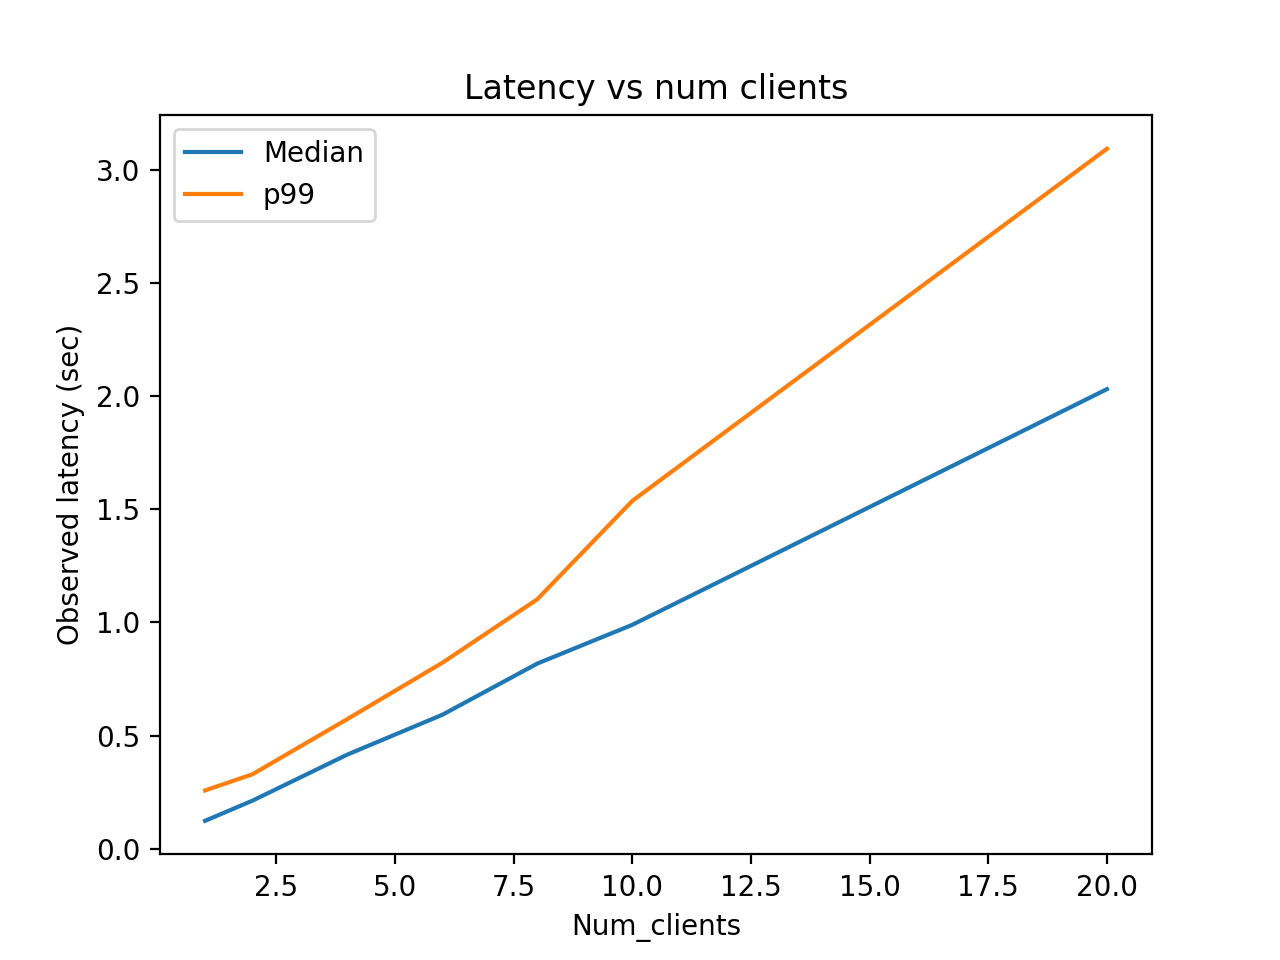
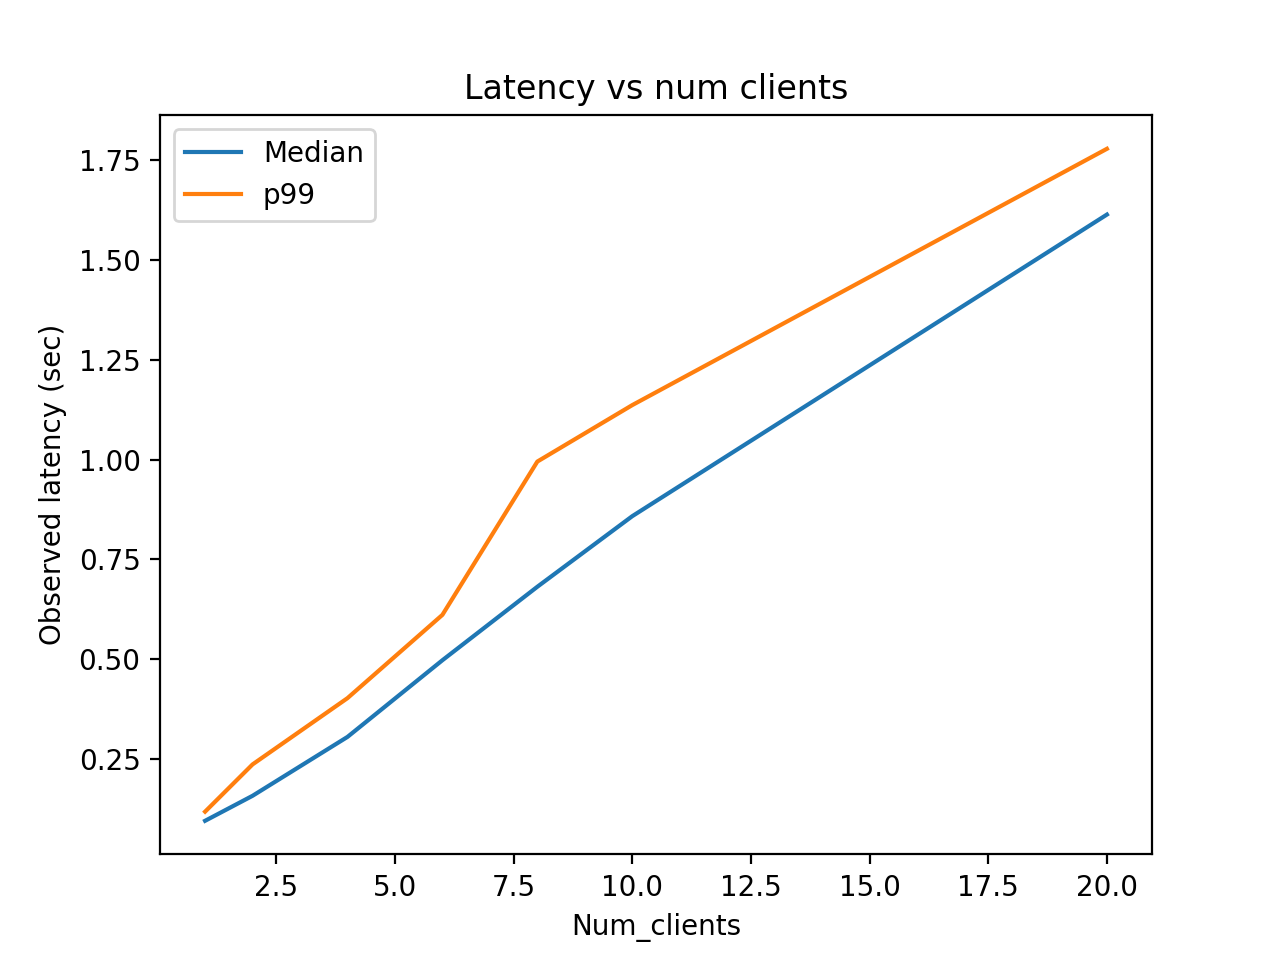
abc

diff --git a/client/measure_perf.py b/client/measure_perf.py
@@ -12,6 +12,12 @@ import client
 
 sys.path.append('../')
 
+# Calculate the harmonic series
+H = np.sum(1.0 / np.arange(1, 101))
+
+# Calculate the probabilities of each value based on the Zipfian distribution
+probs = 1.0 / (np.arange(1, 101) * H)
+
 
 def measure_nil_ext_put(key, val):
     t1 = time()
@@ -36,31 +42,6 @@ def measure_get(key):
     t2 = time()
 
     return t2 - t1
-
-def run_put_exp():
-    latencies, batch_throughputs = [], []
-
-    points = [1, 2, 4, 6,8]
-    points.extend([i for i in range(10, 101, 3)])
-    for thread_count in points:
-        batch = []
-        print(f"Collecting PUT stats with {thread_count} threads")
-
-        with ThreadPoolExecutor(max_workers=thread_count) as executor:
-            key = f"KEY-{random.randint(1, pow(10, 10))}"
-            value = f"Value-{random.randint(1, pow(10, 10))}"
-            t1 = time()
-            future_calls = {executor.submit(
-                measure_nil_ext_put, key, value) for _ in range(thread_count)}
-            for completed_task in as_completed(future_calls):
-                batch.append(completed_task.result())
-            t2 = time()
-            batch_throughputs.append((thread_count, thread_count / (t2 - t1)))
-        latencies.append((thread_count, batch))
-
-    x, y = zip(*batch_throughputs)
-    latency_stats = [(np.median(i[1]), np.percentile(i[1], 99)) for i in latencies]
-    return x, y, latency_stats
 
 def run_get_exp():
     latencies, batch_throughputs = [], []
@@ -112,7 +93,78 @@ def run_non_nil_put_exp():
     latency_stats = [(np.median(i[1]), np.percentile(i[1], 99)) for i in latencies]
     return x, y, latency_stats
 
-def collect_stats(run_exp, NUM_SERVERS=3):
+# Zipfian operation.
+def zipfian_op(write_per): 
+    num_ops = 100
+    lat = []
+
+    for i in range(num_ops):
+        # Get key using zipfian distribution.
+        key = f'key-{np.random.choice(np.arange(1, 101), p=probs)}'
+        value = f'value-{random.randint(1, 1001)}'
+
+        op_choice = np.random.randint(1, 101)
+        if op_choice < write_per:
+            # print("write call")
+            # Perform write operation.
+            time1 = time()
+            client.send_put(key, value)
+            time2 = time()
+
+            lat.append(time2 - time1)
+        else:
+            # print("get call")
+            time1 = time()
+            client.send_get(key)
+            time2 = time()
+
+            lat.append(time2 - time1)
+
+    return lat
+
+# Zipfian operation.
+def uniform_op(write_per):
+    # Get key using zipfian distribution.
+    key = f'key-{random.randint(1, 101)}'
+    value = f'value-{random.randint(1, 1001)}'
+
+    # 
+    op_choice = np.random.randint(1, 101)
+    if op_choice < write_per:
+        # Perform write operation.
+        return measure_nil_ext_put(key, value)
+    else:
+        return measure_get(key)
+
+def run_mixed_exp():
+    latencies, batch_throughputs = [], []
+
+    # Fix num_clients = 10.
+    num_clients = 1
+    num_ops = 100
+
+    points = [i for i in range(10, 101, 10)]
+    for write_per in points:
+        batch = []
+        print(f"Collecting Mixed stats for {write_per} percentage")
+
+        with ThreadPoolExecutor(max_workers=num_clients) as executor:
+            key = f"KEY-{random.randint(1, pow(10, 10))}"
+            value = f"Value-{random.randint(1, pow(10, 10))}"
+            t1 = time()
+            future_calls = {executor.submit(zipfian_op, write_per) for _ in range(num_clients)}
+            for completed_task in as_completed(future_calls):
+                batch.extend(completed_task.result())
+            t2 = time()
+            batch_throughputs.append((write_per, num_ops * num_clients / (t2 - t1)))
+            print(f"Throughput {batch_throughputs[-1]}")
+        latencies.append((write_per, batch))
+
+    x, y = zip(*batch_throughputs)
+    latency_stats = [(np.median(i[1]), np.percentile(i[1], 99)) for i in latencies]
+    return x, y, latency_stats
+
+def collect_stats(run_exp, file_prefix, NUM_SERVERS=3):
     throughputs, latencies = [], []
     x_range = []
     for i in range(1):
@@ -132,23 +184,23 @@ def collect_stats(run_exp, NUM_SERVERS=3):
     print("latencies", avg_lat)
     print("throughputs", avg_throughputs)
 
-    with open(f'plot_data/raft-PUT-median-latency_num_clients.pickle', 'wb') as f:
+    with open(f'plot_data/{file_prefix}-median-latency_num_clients.pickle', 'wb') as f:
         pickle.dump((x_range, [y[0] for y in avg_lat]), f)
 
-    with open(f'plot_data/raft-PUT-p99-latency_num_clients.pickle', 'wb') as f:
+    with open(f'plot_data/{file_prefix}-p99-latency_num_clients.pickle', 'wb') as f:
         pickle.dump((x_range, [y[1] for y in avg_lat]), f)
     
-    with open(f'plot_data/raft-PUT-throughput_num_clients.pickle', 'wb') as f:
+    with open(f'plot_data/{file_prefix}-throughput_num_clients.pickle', 'wb') as f:
         pickle.dump((x_range, avg_throughputs), f)
 
-def plot_put_data():
+def plot_put_data(file_prefix):
     x_range, median_lat, p99_lat, avg_throughputs = [], [], [], []
 
-    with open(f'plot_data/raft-PUT-median-latency_num_clients.pickle', 'rb') as f:
+    with open(f'plot_data/{file_prefix}-median-latency_num_clients.pickle', 'rb') as f:
         x_range, median_lat = pickle.load(f)
-    with open(f'plot_data/raft-PUT-p99-latency_num_clients.pickle', 'rb') as f:
+    with open(f'plot_data/{file_prefix}-p99-latency_num_clients.pickle', 'rb') as f:
         x_range, p99_lat = pickle.load(f)
-    with open(f'plot_data/raft-PUT-throughput_num_clients.pickle', 'rb') as f:
+    with open(f'plot_data/{file_prefix}-throughput_num_clients.pickle', 'rb') as f:
         x_range, avg_throughputs = pickle.load(f)
 
     plt.figure(dpi=200)
@@ -159,7 +211,7 @@ def plot_put_data():
     plt.xlabel("Num_clients")
     plt.ylabel("Observed latency (sec)")
     plt.legend()
-    plt.savefig(f'graphs/PUT-latency.png')
+    plt.savefig(f'graphs/{file_prefix}-latency.png')
     plt.clf()
 
     plt.figure(dpi=200)
@@ -168,18 +220,20 @@ def plot_put_data():
     plt.title("Throughput vs num clients")
     plt.xlabel("Num_clients")
     plt.ylabel("Observed Throughput (Op/sec)")
-    plt.savefig(f'graphs/PUT-throughput.png')
+    plt.savefig(f'graphs/{file_prefix}-throughput.png')
     plt.clf()
 
     plt.figure(dpi=200)
-    plt.plot(avg_throughputs, median_lat)
+    plt.plot(avg_throughputs, median_lat, marker = 'D')
     
     plt.title("Throughput vs Latency")
     plt.xlabel("Throughput")
     plt.ylabel("Latency")
-    plt.savefig(f'graphs/PUT-throughput-latency.png')
+    plt.savefig(f'graphs/{file_prefix}-throughput-latency.png')
     plt.clf()
 
 if __name__ == '__main__':
-    collect_stats(run_non_nil_put_exp)
-    plot_put_data()
+    # collect_stats(run_non_nil_put_exp, "PUT")
+    # plot_put_data("PUT")
+    collect_stats(run_mixed_exp, "MIXED")
+    plot_put_data("MIXED")

diff --git a/server/raft/kv_server.py b/server/raft/kv_server.py
@@ -10,6 +10,7 @@ from .log_manager import *
 from .node import raft_node
 from .utils import *
 from .stats import stats
+from .topological_sort import *
 
 sys.path.append('../../')
 import kvstore_pb2
@@ -66,6 +67,8 @@ class KVStoreServicer(kvstore_pb2_grpc.KVStoreServicer):
 
 
 def main(port=5440):
+    _, time = get_ordered_durability_logs()
+    print("time to sort", time)
     grpc_server = grpc.server(futures.ThreadPoolExecutor(max_workers=1000000))
     kvstore_pb2_grpc.add_KVStoreServicer_to_server(KVStoreServicer(), grpc_server)
     grpc_server.add_insecure_port(f'[::]:{port}')
@@ -77,4 +80,4 @@ def main(port=5440):
 
 
 if __name__ == '__main__':
-    main()
+    main() 

diff --git a/server/raft/topological_sort.py b/server/raft/topological_sort.py
@@ -1,0 +1,22 @@
+import networkx as nx
+from time import time
+
+def get_ordered_durability_logs():
+    t = time() 
+    n = 1000
+    e = []
+    for i in range(n):
+        for j in range(i):
+            e.append((i, j))
+
+    # create a directed acyclic graph
+    graph = nx.DiGraph()
+    graph.add_edges_from(e)
+
+    # perform topological sort
+    topological_order = list(nx.topological_sort(graph))
+
+    # print(topological_order)
+    dur = time() - t
+
+    return topological_order, dur

diff --git a/server/raft/log_manager.py b/server/raft/log_manager.py
@@ -65,7 +65,7 @@ class LogManager:
 
         with self.lock:
             self.entries[start_index:] = log_entry_list
-            # self.flush_many_log_to_disk(start_index, log_entry_list)
+            self.flush_many_log_to_disk(start_index, log_entry_list)
 
         return True
 
